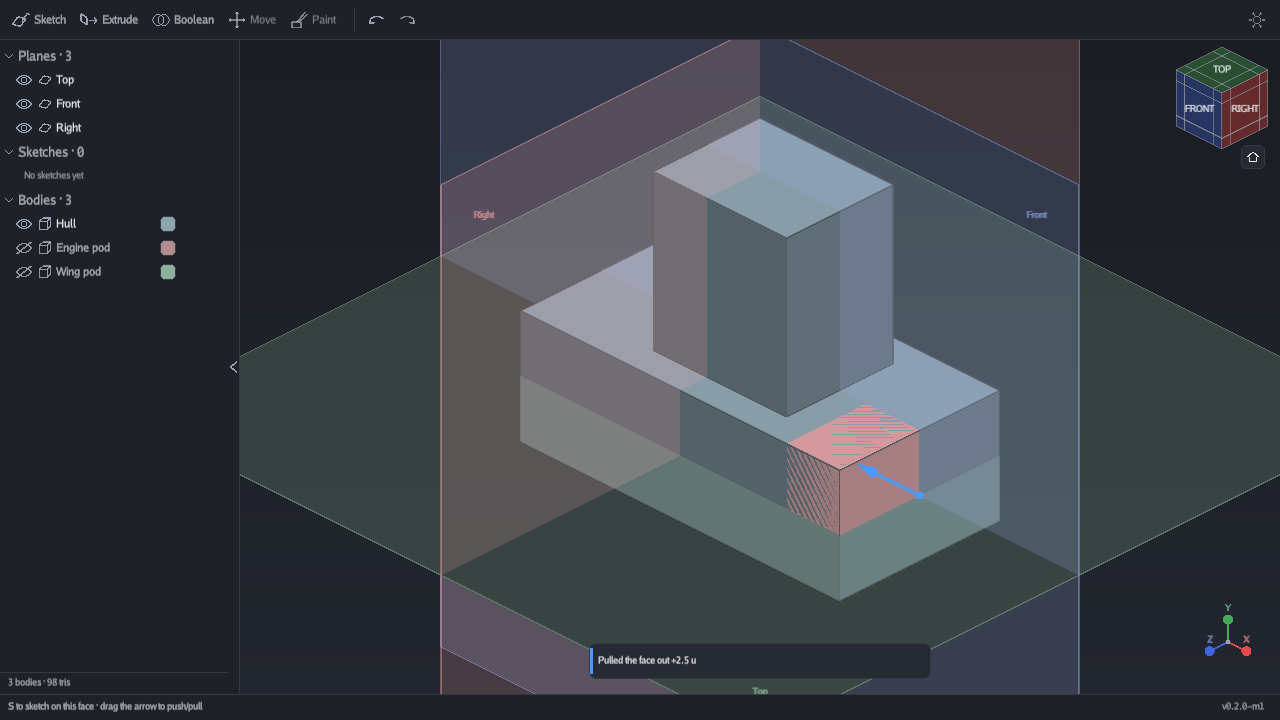
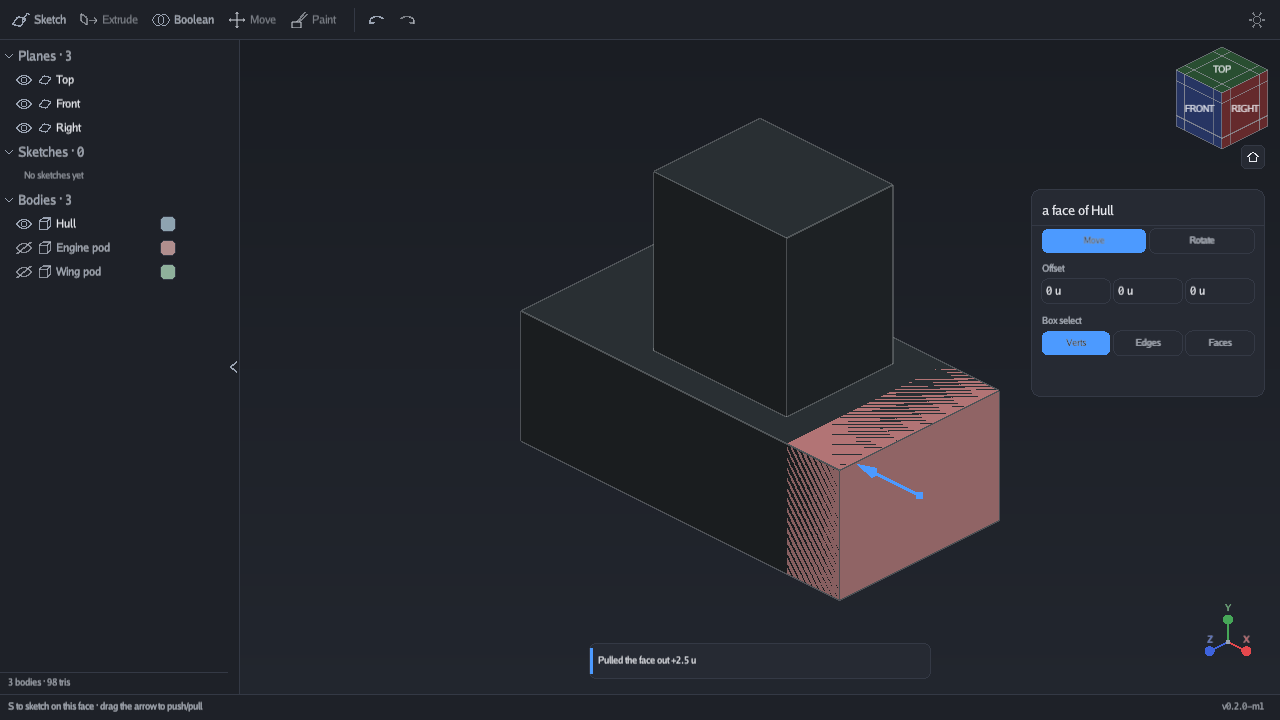
Push/pull drags get the same clean view as an extrude
Reported with a screenshot: dragging a face left the planes in place and
the model at full strength, and a translucent plane blending against a
translucent preview in the same pass made a muddle of both.

An extrude already dimmed the scene and hid the planes. A push/pull drag
asks the identical question — how far has this come — so it now goes
through the same predicate and gets the same answer: planes away, model
dimmed, preview at full strength. Blue for material going on, red for
material coming off, and nothing else in the frame.

Everything is back the instant the drag ends; the eye toggles in the tree
are untouched throughout.

diff --git a/internal/app/viewport.go b/internal/app/viewport.go
@@ -52,12 +52,13 @@ func (a *App) BuildScene() render.Scene {
 		s.Bodies = append(s.Bodies, d)
 	}
 
-	// The default planes step out of the way entirely while an extrude is being
-	// dragged. Dimming them was not enough: three translucent quads spanning the
-	// viewport still cross the solid you are pulling out, and the one thing that
+	// The default planes step out of the way entirely while material is being
+	// dragged out or in. Dimming them was not enough: three translucent quads
+	// spanning the viewport still cross the solid you are pulling, they blend
+	// against a translucent preview in the same pass, and the one thing that
 	// matters at that moment is how far it has come. They are back the instant
-	// the tool closes, and their eye toggles are untouched.
-	if !a.InExtrude() {
+	// the drag ends, and their eye toggles are untouched.
+	if !a.previewOwnsView() {
 		s.Planes = a.buildPlaneDraws()
 	}
 
@@ -92,7 +93,9 @@ func (a *App) BuildScene() render.Scene {
 
 	// Sketch mode dims the rest of the model and puts the grid on the sketch
 	// plane, so the profile being drawn is what the eye lands on (SPEC-UX §8.1).
-	if a.InSketch() || a.InExtrude() {
+	// A push/pull drag gets the same treatment for as long as it lasts: it is
+	// the same question — how far has this come — asked with a different tool.
+	if a.InSketch() || a.previewOwnsView() {
 		s.DimFactor = SketchDimFactor
 		if sk := a.ActiveSketch(); sk != nil {
 			s.Grid = scene.SketchGridFor(sk)
@@ -221,6 +224,20 @@ func (a *App) FrameSelection(vp render.Viewport) {
 	}
 	to.FrameBox(box, vp.Aspect())
 	a.Anim.Start(a.Camera, to)
+}
+
+// previewOwnsView reports that a translucent preview is the subject of the
+// view: an open extrude, or a push/pull drag that has moved.
+//
+// Both put a see-through solid in front of the model and ask one question about
+// it. Everything else — planes included — gets out of the way until the answer
+// is given.
+func (a *App) previewOwnsView() bool {
+	if a.InExtrude() {
+		return true
+	}
+	t := a.pushPull.tool
+	return t != nil && (t.Dragging() || t.Active())
 }
 
 // selectedFacesOf collects the selected faces belonging to one body, which is

diff --git a/PROGRESS.md b/PROGRESS.md
@@ -30,6 +30,14 @@ thing that matters is how far it has come. They are hidden for the duration of
 the tool and back the instant it closes; their eye toggles are untouched. The
 sketch grid stays, because that is what makes the depth readable.
 
+**And then the same for push/pull, with a second screenshot showing why.** A
+push/pull drag had none of this: the model stayed at full strength, the planes
+stayed put, and a translucent plane blending against a translucent preview in
+the same pass produced exactly the muddle the user called an eye sore. Both
+tools now go through one predicate, `previewOwnsView` — an open extrude, or a
+push/pull drag that has moved — and both get the same treatment. Blue material
+going on, red coming off, against a dimmed model and nothing else.
+
 **Verified:** rendered an extrude in progress on the user's scene — the prism
 is now unmistakably the brightest thing in the frame. Sketch mode re-checked:
 the sketch still reads first, and the plane quads no longer compete with it.
